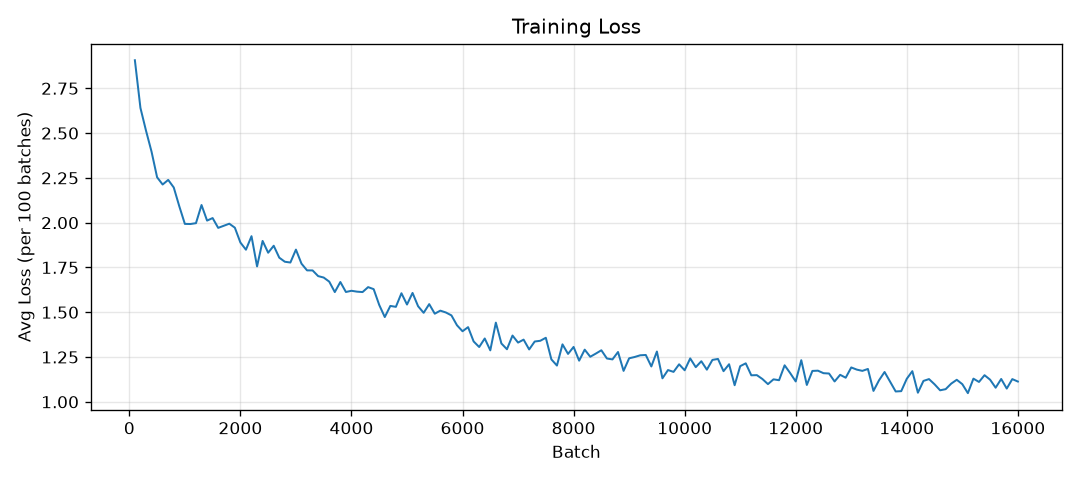
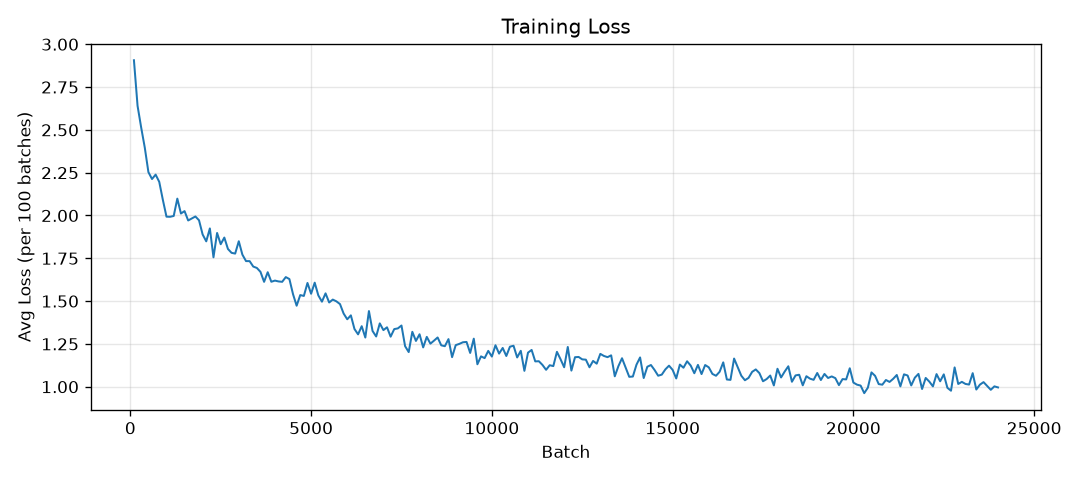
更新说明

diff --git a/README.md b/README.md
@@ -32,14 +32,21 @@
 
 ```
 VLM/
-├── data/qa/                   # 训练问答 JSON
-├── models/vlms/               # VLM 模型定义（Step 4）
-├── models/demo/               # 各组件单独验证（Step 2）
-├── utils/                     # 数据构建、训练日志（Step 3、5）
-├── scripts/                   # 训练与测试（Step 5、6）
-├── web/                       # Web 界面（Step 7）
-├── eval/                      # 模型评估（Step 8）
-├── checkpoints/               # Align / InstructFT 的 projector.pt
+├── data/qa/                              # 训练问答 JSON
+├── models/
+│   ├── vlms/                             # VLM 定义（Step 4，含 LoRA 版）
+│   └── demo/                             # 各组件单独验证（Step 2）
+├── utils/                                # 数据构建、训练日志（Step 3、5）
+├── scripts/                              # 训练与测试（Step 5、6，含 LoRA）
+├── web/                                  # Web 界面（Step 7，含 demo.png）
+├── eval/                                 # 评估脚本（Step 8）
+├── checkpoints/
+│   ├── semantic_align/projector.pt       # Align 权重
+│   └── instructft/projector.pt           # InstructFT 权重
+├── logs/
+│   ├── semantic_align/loss.png           # Align loss 曲线
+│   ├── instructft/loss.png               # InstructFT loss 曲线
+│   └── instructft_lora/loss.png          # LoRA loss 曲线
 └── requirements.txt
 ```
 
@@ -345,6 +352,7 @@ python scripts/step5_train_vlm_v1.py --stage instructft
 | Align 语义对齐      | COCO-CN 描述对齐视觉与语言空间 | `data/qa/coco_cn_qa.json`            | `checkpoints/semantic_align/projector.pt` |
 | InstructFT 指令微调 | 多类视觉问答，学会按问题类型回答    | `data/qa/coco_train_qa_qwen3.5.json` | `checkpoints/instructft/projector.pt`     |
 
+
 **训练 loss 曲线**
 
 <table>
@@ -363,6 +371,8 @@ mkdir -p logs/instructft
 nohup python scripts/step5_train_vlm_v1.py --stage instructft > logs/instructft/nohup.out 2>&1 &
 ```
 
+
+
 ### Step 5b：InstructFT + LoRA（可选）
 
 在 Align projector 基础上，用 InstructFT 数据**联合训练 Projector + Qwen attention LoRA**（rank=16，运行时挂 adapter，不 merge）。
@@ -371,10 +381,12 @@ nohup python scripts/step5_train_vlm_v1.py --stage instructft > logs/instructft/
 python scripts/step5_train_instructft_lora.py
 ```
 
-| 输出 | 路径 |
-| --- | --- |
-| Projector | `checkpoints/instructft_lora/projector.pt` |
-| LoRA adapter | `checkpoints/instructft_lora/lora/` |
+
+| 输出           | 路径                                         |
+| ------------ | ------------------------------------------ |
+| Projector    | `checkpoints/instructft_lora/projector.pt` |
+| LoRA adapter | `checkpoints/instructft_lora/lora/`        |
+
 
 **训练 loss 曲线**
 
@@ -382,9 +394,9 @@ python scripts/step5_train_instructft_lora.py
   <img src="logs/instructft_lora/loss.png" alt="InstructFT + LoRA loss" width="80%">
 </p>
 
-日志：`logs/instructft_lora/` 下的 `train.log`（本地）、`loss.png`（推送参考）。
-
 ---
+
+
 
 ## Step 6：命令行测试
 
@@ -422,7 +434,7 @@ python server.py
 | 环境             | 做法                                                          |
 | -------------- | ----------------------------------------------------------- |
 | 本机 / 公司局域网     | 终端打印 `192.168.x.x:7860`，发给同网同事                              |
-| AutoDL（Docker） | `172.17.x.x` 是容器 IP，**不能**当局域网用；在控制台做 **7860 端口映射**，用平台外链分享 |
+| AutoDL（Docker） | `172.17.x.x` 是容器 IP，**不能**当局域网用 |
 
 
 ---
@@ -517,8 +529,6 @@ python eval/step8_3_judge_scores.py \
 
 
 各维度须为 **0–20 任意整数**（如 7、11、14、17），按实际表现细粒度给分，禁止机械套用 0/10/20 锚点。分档参考：18–20 几乎无瑕疵 · 14–17 基本正确 · 10–13 部分正确 · 5–9 大部分错误 · 0–4 完全错误或无关。
-
-Step 8.3 结束后终端与对应 `step8_3_scores_*.json` 的 `meta.summary` 会输出 `semantic_align_scene`、`instructft_detail`、`overall` 均分及各维度均分。
 
 ---
 